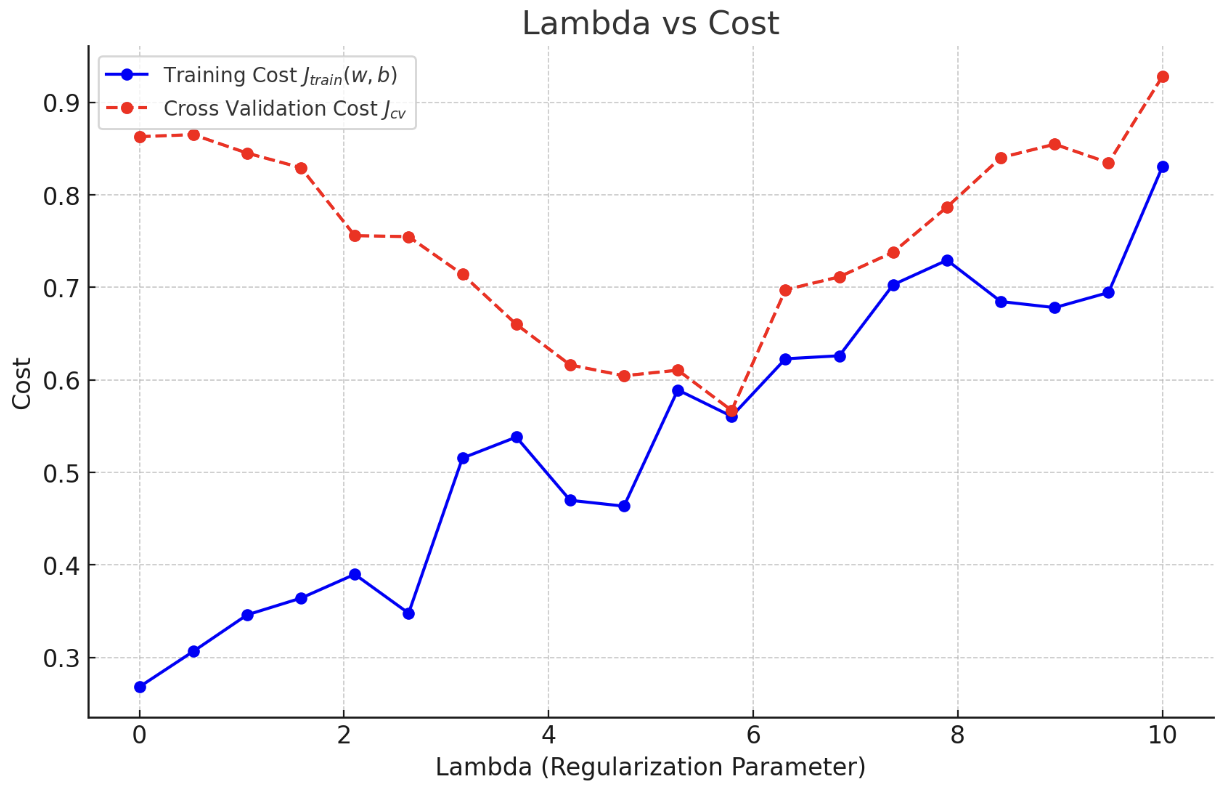
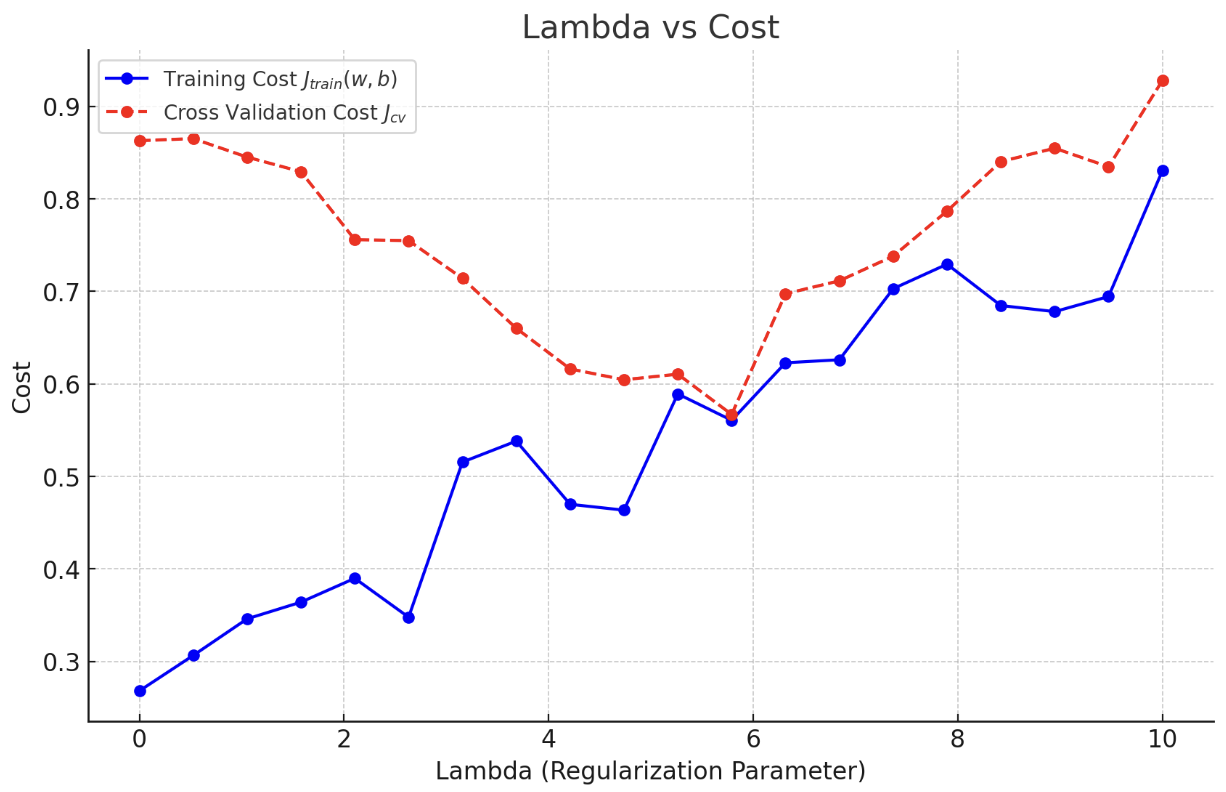
image formatted

diff --git a/readme.md b/readme.md
@@ -961,4 +961,4 @@ Choosing the regularization parameter $\lambda$ with cross-validation:
 
 Bias and variance as a function of regularization parameter $\lambda$. With a small $\lambda$ the model has high variance, it is overfitting. With a large $\lambda$ the model has high bias and low variance, it is underfitting.
 
-![alt text](images/lambda_vs_cost.png)
+<img src="images/lambda_vs_cost.png" height="400" />
